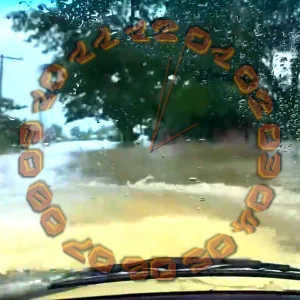
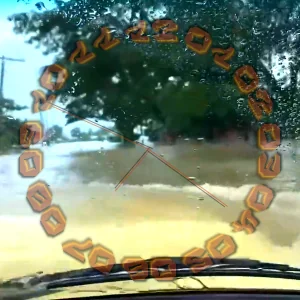
z

diff --git a/src/pages/2026/26-06/26-06-15/Clock.tsx b/src/pages/2026/26-06/26-06-15/Clock.tsx
@@ -50,23 +50,28 @@ const Clock: React.FC = () => {
     };
   }, [time]);
 
-  const styles: Record<string, React.CSSProperties> = {
+  // FIXED: Consolidated into a single valid object literal
+
+    const styles: Record<string, React.CSSProperties> = {
     container: {
       width: '100vw',
       height: '100dvh',
       display: 'flex',
       alignItems: 'center',
       justifyContent: 'center',
-      backgroundColor: '#444000',
-      color: '#EFB3F7',
+      color: '#A007B4',
+      // CHANGED: Use 'background' or 'backgroundImage' instead of 'gradient'
+      background: 'radial-gradient(circle, #FFFC66 0%, #AFADAA 100%)',
       margin: 0,
       padding: 0,
       overflow: 'hidden',
+      textShadow: '1px 1px 0 #000, -1px -1px 0 #000, 1px -1px 0 #000, -1px 1px 0 #000',
     },
+    // ... rest of your styles remain exactly the same
     clockWrapper: {
       display: 'flex',
       alignItems: 'flex-end',
-      gap: '1.5vw',
+      // gap: '1.5vw',
     },
     unitContainer: {
       display: 'flex',
@@ -76,38 +81,39 @@ const Clock: React.FC = () => {
     hexRow: {
       display: 'flex',
       marginBottom: '0.8vh',
+      gap: '-2vw',
     },
     digitRow: {
       display: 'flex',
     },
     digitBox: {
-      width: '6vw',
-      height: '8vw',
+      width: '13vw',
+      height: '5vw',
       display: 'flex',
       alignItems: 'center',
       justifyContent: 'center',
       fontFamily: 'ClockFont_26_06_15, monospace',
-      fontSize: '4vw',
+      fontSize: '8vw',
       userSelect: 'none',
     },
     digitBoxSmall: {
-      width: '9vw',
+      width: '7vw',
       height: '11vw',
       display: 'flex',
       alignItems: 'center',
       justifyContent: 'center',
       fontFamily: "'Pliant', monospace",
-      fontSize: '10vw',
+      fontSize: '12vw',
       userSelect: 'none',
     },
     baseIndicator: {
-      fontSize: '4vw',
+      fontSize: '5vw',
       fontFamily: "'Pliant', monospace",
       alignSelf: 'flex-end',
       marginBottom: '-2vw',
     },
     unitLabel: {
-      fontSize: '1.2vw',
+      fontSize: '3vw',
       fontFamily: 'monospace',
       textTransform: 'uppercase',
       letterSpacing: '0.25em',
@@ -128,11 +134,12 @@ const Clock: React.FC = () => {
             <DigitBox char={timeParts.h.hex[1]} isSmall />
             <span style={styles.baseIndicator}>16</span>
           </div>
+              <span style={styles.unitLabel}>Hours</span>
+      
           <div style={styles.digitRow}>
             <DigitBox char={timeParts.h.dec[0]} />
             <DigitBox char={timeParts.h.dec[1]} />
           </div>
-          <span style={styles.unitLabel}>Hours</span>
         </div>
 
         <div style={styles.unitContainer}>
@@ -141,11 +148,12 @@ const Clock: React.FC = () => {
             <DigitBox char={timeParts.m.hex[1]} isSmall />
             <span style={styles.baseIndicator}>16</span>
           </div>
+                    <span style={styles.unitLabel}>Minutes</span>
           <div style={styles.digitRow}>
             <DigitBox char={timeParts.m.dec[0]} />
             <DigitBox char={timeParts.m.dec[1]} />
           </div>
-          <span style={styles.unitLabel}>Minutes</span>
+
         </div>
 
         <div style={styles.unitContainer}>
@@ -154,12 +162,13 @@ const Clock: React.FC = () => {
             <DigitBox char={timeParts.s.hex[1]} isSmall />
             <span style={styles.baseIndicator}>16</span>
           </div>
+            <span style={styles.unitLabel}>Seconds</span>
+  
           <div style={styles.digitRow}>
             <DigitBox char={timeParts.s.dec[0]} />
             <DigitBox char={timeParts.s.dec[1]} />
           </div>
-          <span style={styles.unitLabel}>Seconds</span>
-        </div>
+              </div>
       </time>
     </main>
   );